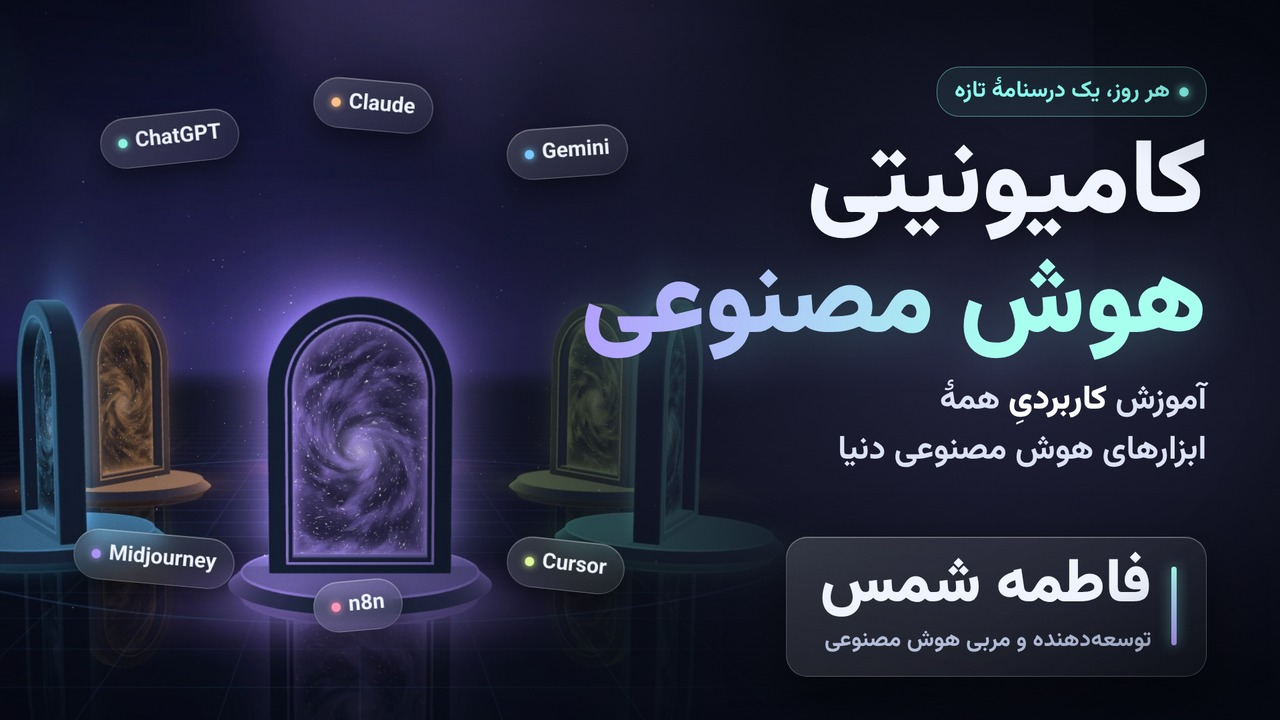
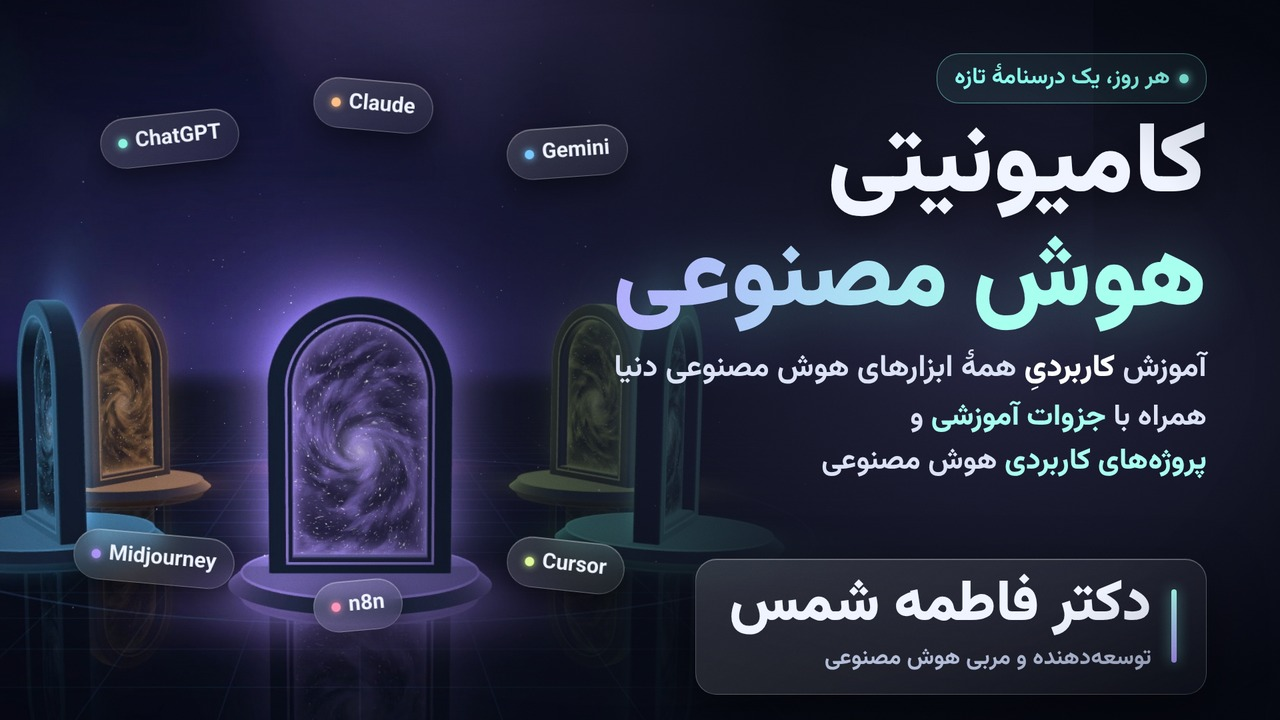
Community group video cover: «دکتر فاطمه شمس» + handouts/projects line
Claude-Session: https://claude.ai/code/session_01NWBpiNWLZXage7WR3fwCFM

Changed region(s): [[0.4375, 0.0611, 0.9688, 0.6722], [0.5312, 0.7333, 0.9375, 0.9778]]

diff --git a/videos/community-group/cover/index.html b/videos/community-group/cover/index.html
@@ -91,18 +91,20 @@
         background: linear-gradient(145deg, rgba(255, 255, 255, 0.16), rgba(255, 255, 255, 0.05)); border: 1.5px solid rgba(255, 255, 255, 0.28);
         backdrop-filter: blur(14px); box-shadow: inset 0 1px 0 rgba(255, 255, 255, 0.35), 0 16px 40px rgba(0, 0, 0, 0.45); }
       .chip i { display: block; width: 14px; height: 14px; border-radius: 50%; }
-      #copy { position: absolute; right: 110px; top: 100px; width: 1000px; text-align: right; }
+      #copy { position: absolute; right: 110px; top: 80px; width: 1060px; text-align: right; }
       #eye { display: inline-flex; align-items: center; gap: 14px; padding: 10px 26px; border-radius: 34px; border: 1.5px solid rgba(137, 255, 240, 0.5); background: rgba(137, 255, 240, 0.08); font-size: 34px; font-weight: 700; color: #89fff0; }
       #eye i { display: block; width: 14px; height: 14px; border-radius: 50%; background: #89fff0; box-shadow: 0 0 14px #89fff0; }
-      #t1 { margin-top: 20px; font-size: 156px; font-weight: 900; line-height: 1.1; text-shadow: 0 10px 50px rgba(0, 0, 0, 0.6); }
-      #t2 { font-size: 156px; font-weight: 900; line-height: 1.2; white-space: nowrap; background: linear-gradient(100deg, #b39aff 5%, #a8ffef 70%); -webkit-background-clip: text; background-clip: text; color: transparent; filter: drop-shadow(0 8px 40px rgba(137, 255, 240, 0.25)); }
-      #slogan { margin-top: 10px; max-width: 900px; margin-right: 0; margin-left: auto; font-size: 50px; font-weight: 600; line-height: 1.5; color: #dce2f5; text-wrap: balance; }
+      #t1 { margin-top: 16px; font-size: 148px; font-weight: 900; line-height: 1.1; text-shadow: 0 10px 50px rgba(0, 0, 0, 0.6); }
+      #t2 { font-size: 148px; font-weight: 900; line-height: 1.2; white-space: nowrap; background: linear-gradient(100deg, #b39aff 5%, #a8ffef 70%); -webkit-background-clip: text; background-clip: text; color: transparent; filter: drop-shadow(0 8px 40px rgba(137, 255, 240, 0.25)); }
+      #slogan { margin-top: 8px; white-space: nowrap; font-size: 46px; font-weight: 600; line-height: 1.5; color: #dce2f5; text-wrap: balance; }
       #slogan b { color: #fff; font-weight: 900; }
-      #name { position: absolute; right: 110px; top: 805px; display: flex; align-items: center; gap: 30px; padding: 24px 44px 26px 50px; border-radius: 32px;
+      #slogan2 { margin-top: 6px; max-width: 900px; margin-left: auto; font-size: 44px; font-weight: 600; line-height: 1.5; color: #dce2f5; text-wrap: balance; }
+      #slogan2 b { color: #a8ffef; font-weight: 800; }
+      #name { position: absolute; right: 110px; top: 838px; display: flex; align-items: center; gap: 30px; padding: 24px 44px 26px 50px; border-radius: 32px;
         background: linear-gradient(145deg, rgba(255, 255, 255, 0.13), rgba(255, 255, 255, 0.04)); border: 1.5px solid rgba(255, 255, 255, 0.24);
         backdrop-filter: blur(18px); box-shadow: inset 0 1px 0 rgba(255, 255, 255, 0.35), 0 30px 80px rgba(0, 0, 0, 0.5); }
-      #name i { display: block; width: 8px; height: 118px; border-radius: 4px; background: linear-gradient(#a8ffef, #b39aff); box-shadow: 0 0 20px rgba(137, 255, 240, 0.6); }
-      #name b { display: block; font-size: 92px; font-weight: 900; line-height: 1.1; }
+      #name i { display: block; width: 8px; height: 110px; border-radius: 4px; background: linear-gradient(#a8ffef, #b39aff); box-shadow: 0 0 20px rgba(137, 255, 240, 0.6); }
+      #name b { display: block; font-size: 86px; font-weight: 900; line-height: 1.1; }
       #name span { display: block; margin-top: 4px; font-size: 34px; font-weight: 600; color: #b3bdd8; }
       #grain { position: absolute; inset: 0; background-image: url("assets/grain.png"); background-size: 256px 256px; opacity: 0.07; mix-blend-mode: overlay; }
       #vig { position: absolute; inset: 0; background: radial-gradient(ellipse 80% 80% at 50% 50%, rgba(8, 11, 21, 0) 60%, rgba(2, 3, 10, 0.55) 100%); }
@@ -124,8 +126,9 @@
         <div id="t1">کامیونیتی</div>
         <div id="t2">هوش مصنوعی</div>
         <div id="slogan">آموزش <b>کاربردیِ</b> همهٔ ابزارهای هوش مصنوعی دنیا</div>
+        <div id="slogan2">همراه با <b>جزوات آموزشی</b> و <b>پروژههای کاربردی</b> هوش مصنوعی</div>
       </div>
-      <div id="name" class="rtl"><i></i><div><b>فاطمه شمس</b><span>توسعهدهنده و مربی هوش مصنوعی</span></div></div>
+      <div id="name" class="rtl"><i></i><div><b>دکتر فاطمه شمس</b><span>توسعهدهنده و مربی هوش مصنوعی</span></div></div>
       <div id="vig" class="clip" data-start="0" data-duration="1" data-track-index="4"></div>
       <div id="grain" class="clip" data-start="0" data-duration="1" data-track-index="5"></div>
     </div>
